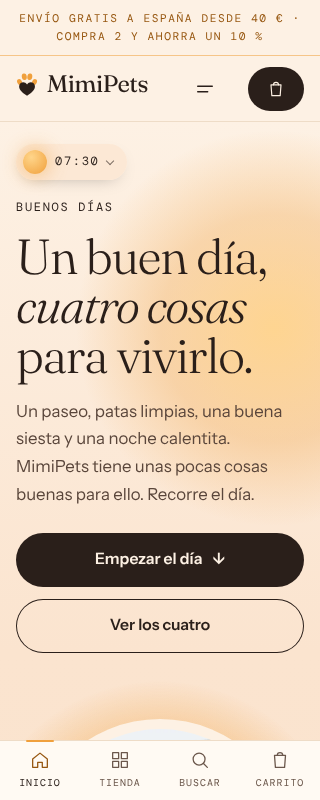
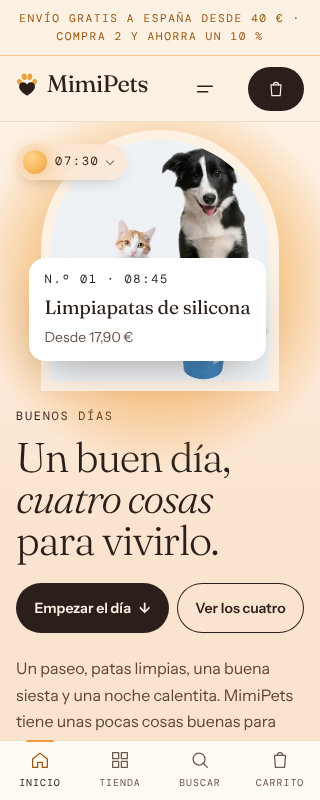
Phones open on the product
The first screen on a phone was mostly text, with the photo below the
fold. It now opens on the product: the arched photo with its name and
price comes first, then the headline and both buttons; the longer
sentence follows them. Short or narrow phones (iPhone SE, small
Androids) get a smaller photo and headline, and the two buttons stay
side by side, so all of it still fits. Computers and tablets are
unchanged.

Claude-Session: https://claude.ai/code/session_01W8hsiWPjb2UxqJw8UVpYvn

diff --git a/src/components/home/Day.module.css b/src/components/home/Day.module.css
@@ -391,8 +391,7 @@
   .cta {
     animation-delay: 0.42s;
   }
-  .sunrise,
-  .hero::before {
+  .sunrise {
     animation: sun-up 2.2s var(--ease-out) both;
   }
   .arch {
@@ -1370,28 +1369,6 @@
   .ch.ch {
     scroll-margin-top: 0px;
   }
-  /* A warm glow rises behind the first words, so the first screen has its sun. */
-  .hero {
-    position: relative;
-    isolation: isolate;
-  }
-  .hero::before {
-    content: "";
-    position: absolute;
-    z-index: -1;
-    right: -170px;
-    top: -70px;
-    width: 400px;
-    height: 400px;
-    border-radius: 50%;
-    background: radial-gradient(
-      circle,
-      rgba(255, 205, 120, 0.75) 0%,
-      rgba(240, 160, 60, 0.32) 40%,
-      rgba(240, 160, 60, 0) 70%
-    );
-    pointer-events: none;
-  }
   .sunset {
     left: 70%;
     top: 22px;
@@ -1428,15 +1405,31 @@
     margin-left: 4px;
   }
 
+  /* The first screen opens on the product: photo, name and price first,
+     then the headline and the buttons; the longer sentence follows them. */
   .dawn .content {
-    padding-top: 76px;
+    padding-top: 18px;
+  }
+  .hero {
+    gap: 26px;
+  }
+  .heroText {
+    display: flex;
+    flex-direction: column;
+    padding-bottom: 0;
   }
   .heroTitle {
-    margin: 14px 0 18px;
-    font-size: clamp(3rem, 15.4vw, 3.9rem);
+    margin: 10px 0 0;
+    font-size: clamp(2.6rem, 12.8vw, 3.3rem);
   }
   .cta {
-    margin-top: 24px;
+    order: 1;
+    margin-top: 22px;
+  }
+  .lead {
+    order: 2;
+    margin-top: 22px;
+    font-size: 1rem;
   }
   .cta :global(.btn) {
     flex: 1 1 auto;
@@ -1444,9 +1437,10 @@
     white-space: nowrap;
   }
   .window {
+    order: -1;
     justify-self: center;
-    width: min(330px, 86%);
-    margin-top: 30px;
+    width: min(300px, 76%);
+    margin-top: 0;
   }
   .sunrise {
     top: -50px;
@@ -1455,8 +1449,8 @@
     margin-left: -190px;
   }
   .arch {
-    aspect-ratio: 330 / 400;
-    border-radius: 170px 170px 0 0;
+    aspect-ratio: 300 / 330;
+    border-radius: 150px 150px 0 0;
   }
   .caption {
     left: -22px;
@@ -1610,5 +1604,47 @@
   }
   .quiz {
     margin-top: 28px;
+  }
+}
+
+/* Short or narrow phones (iPhone SE, small Androids): a smaller photo and
+   headline, and both buttons side by side, so the first screen still holds
+   the product, the headline and the buttons. */
+@media (max-width: 760px) and (max-height: 760px) {
+  .window {
+    width: min(232px, 62%);
+  }
+  .sunrise {
+    top: -40px;
+    width: 300px;
+    height: 300px;
+    margin-left: -150px;
+  }
+  .dawn .content {
+    padding-top: 10px;
+  }
+  .hero {
+    gap: 16px;
+  }
+  .heroTitle {
+    margin-top: 6px;
+    font-size: clamp(2.2rem, 10.6vw, 2.6rem);
+  }
+  .cta {
+    margin-top: 16px;
+  }
+}
+@media (max-width: 400px) {
+  .cta {
+    flex-wrap: nowrap;
+    gap: 8px;
+  }
+  .hero .cta :global(.btn.btn) {
+    flex: 1 1 auto;
+    min-width: 0;
+    min-height: 50px;
+    padding-inline: 12px;
+    gap: 8px;
+    font-size: 0.88rem;
   }
 }
